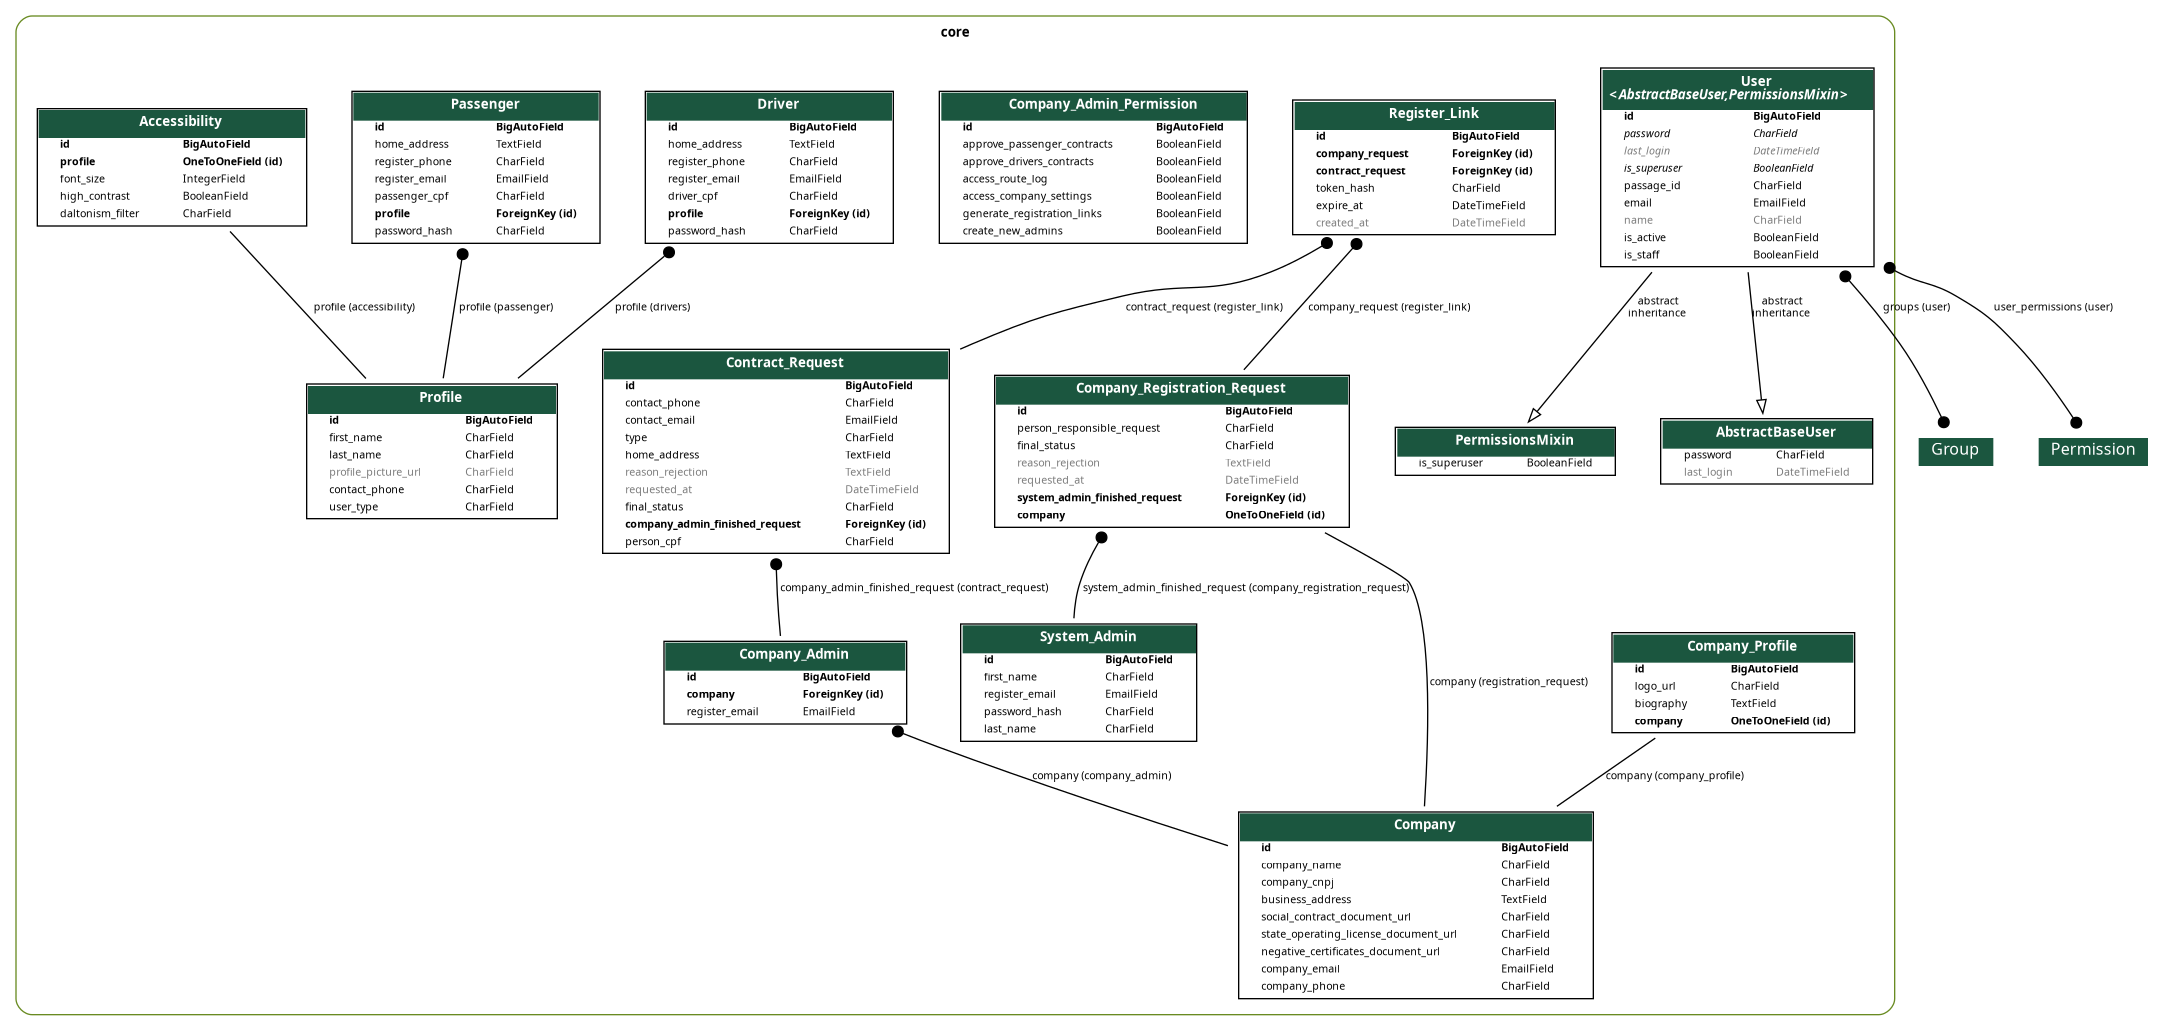
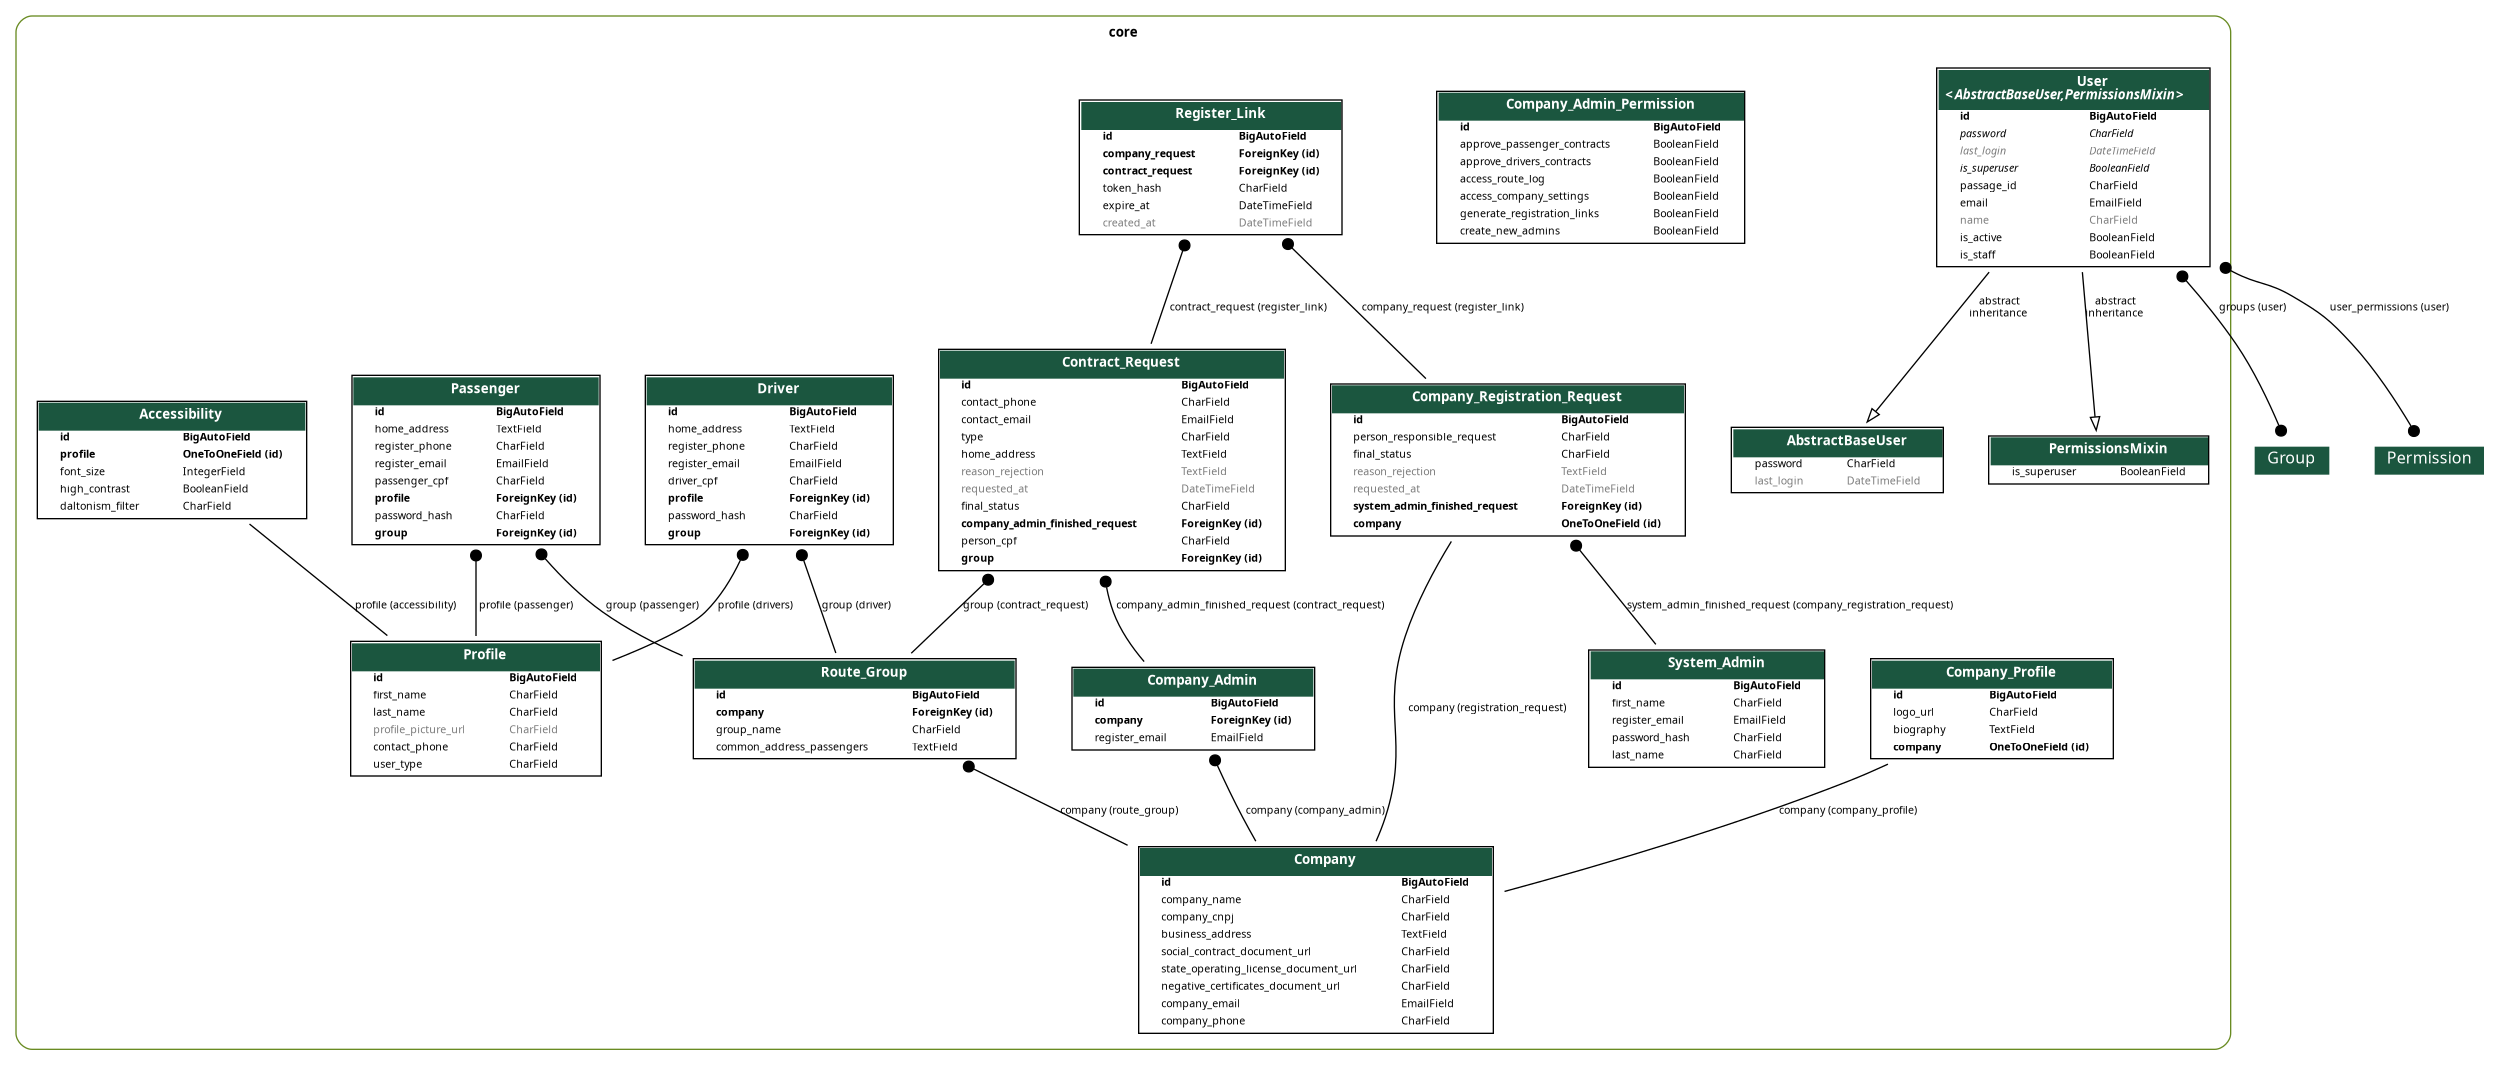
feat: criacao de api RouteGroup #13

diff --git a/core/migrations/0019_contract_request_group_driver_group_passenger_group.py b/core/migrations/0019_contract_request_group_driver_group_passenger_group.py
@@ -1,0 +1,29 @@
+# Generated by Django 5.2.12 on 2026-04-13 14:02
+
+import django.db.models.deletion
+from django.db import migrations, models
+
+
+class Migration(migrations.Migration):
+
+    dependencies = [
+        ('core', '0018_route_group'),
+    ]
+
+    operations = [
+        migrations.AddField(
+            model_name='contract_request',
+            name='group',
+            field=models.ForeignKey(null=True, on_delete=django.db.models.deletion.SET_NULL, to='core.route_group'),
+        ),
+        migrations.AddField(
+            model_name='driver',
+            name='group',
+            field=models.ForeignKey(null=True, on_delete=django.db.models.deletion.SET_NULL, to='core.route_group'),
+        ),
+        migrations.AddField(
+            model_name='passenger',
+            name='group',
+            field=models.ForeignKey(null=True, on_delete=django.db.models.deletion.SET_NULL, to='core.route_group'),
+        ),
+    ]

diff --git a/core/migrations/0018_route_group.py b/core/migrations/0018_route_group.py
@@ -1,0 +1,27 @@
+# Generated by Django 5.2.12 on 2026-04-13 13:58
+
+import django.db.models.deletion
+from django.db import migrations, models
+
+
+class Migration(migrations.Migration):
+
+    dependencies = [
+        ('core', '0017_passenger'),
+    ]
+
+    operations = [
+        migrations.CreateModel(
+            name='Route_Group',
+            fields=[
+                ('id', models.BigAutoField(auto_created=True, primary_key=True, serialize=False, verbose_name='ID')),
+                ('group_name', models.CharField(max_length=100)),
+                ('common_address_passengers', models.TextField()),
+                ('company', models.ForeignKey(on_delete=django.db.models.deletion.CASCADE, to='core.company')),
+            ],
+            options={
+                'verbose_name': 'Grupo de Rota',
+                'verbose_name_plural': 'Grupos de Rota',
+            },
+        ),
+    ]

diff --git a/core/models/route_group.py b/core/models/route_group.py
@@ -1,0 +1,14 @@
+from django.db import models
+
+
+class Route_Group(models.Model):
+    company = models.ForeignKey('Company', on_delete=models.CASCADE)
+    group_name = models.CharField(max_length=100)
+    common_address_passengers = models.TextField()
+
+    class Meta:
+        verbose_name = 'Grupo de Rota'
+        verbose_name_plural = 'Grupos de Rota'
+
+    def __str__(self):
+        return f"Grupo de Rota {self.group_name} - Empresa: {self.company.company_name}"

diff --git a/core/serializers/route_group.py b/core/serializers/route_group.py
@@ -1,0 +1,9 @@
+from rest_framework.serializers import ModelSerializer
+
+from core.models import Route_Group
+
+
+class Route_GroupSerializer(ModelSerializer):
+    class Meta:
+        model = Route_Group
+        fields = '__all__'

diff --git a/core/views/route_group.py b/core/views/route_group.py
@@ -1,0 +1,9 @@
+from rest_framework.viewsets import ModelViewSet
+
+from core.models import Route_Group
+from core.serializers import Route_GroupSerializer
+
+
+class Route_GroupViewSet(ModelViewSet):
+    queryset = Route_Group.objects.all()
+    serializer_class = Route_GroupSerializer

diff --git a/app/urls.py b/app/urls.py
@@ -19,6 +19,7 @@ from core.views import (
     PassengerViewSet,
     ProfileViewSet,
     Register_LinkViewSet,
+    Route_GroupViewSet,
     System_AdminViewSet,
     UserViewSet,
 )
@@ -42,6 +43,7 @@ router.register(r'solicitacoes_contrato', Contract_RequestViewSet, basename='sol
 router.register(r'links_cadastro', Register_LinkViewSet, basename='links de cadastro')
 router.register(r'motoristas', DriverViewSet, basename='motoristas')
 router.register(r'passageiros', PassengerViewSet, basename='passageiros')
+router.register(r'grupos_de_rotas', Route_GroupViewSet, basename='grupos de rotas')
 
 urlpatterns = [
     path('admin/', admin.site.urls),

diff --git a/core/admin.py b/core/admin.py
@@ -64,3 +64,4 @@ admin.site.register(models.Contract_Request)
 admin.site.register(models.Register_Link)
 admin.site.register(models.Driver)
 admin.site.register(models.Passenger)
+admin.site.register(models.Route_Group)

diff --git a/core/models/__init__.py b/core/models/__init__.py
@@ -11,3 +11,4 @@ from  .contract_request import Contract_Request
 from .register_link import Register_Link
 from .driver import Driver
 from .passenger import Passenger
+from .route_group import Route_Group

diff --git a/core/models/contract_request.py b/core/models/contract_request.py
@@ -11,6 +11,7 @@ class Contract_Request(models.Model):
     final_status = models.CharField(max_length=20)
     company_admin_finished_request = models.ForeignKey('Company_Admin', on_delete=models.PROTECT, null=True)
     person_cpf = models.CharField(max_length=14)
+    group = models.ForeignKey('Route_Group', on_delete=models.SET_NULL, null=True)
 
     class Meta:
         verbose_name = 'Solicitação de Contrato'

diff --git a/core/models/driver.py b/core/models/driver.py
@@ -8,6 +8,7 @@ class Driver(models.Model):
     driver_cpf = models.CharField(max_length=14)
     profile = models.ForeignKey('Profile', on_delete=models.PROTECT, related_name='drivers')
     password_hash = models.CharField(max_length=255)
+    group = models.ForeignKey('Route_Group', on_delete=models.SET_NULL, null=True)
 
     class Meta:
         verbose_name = 'Motorista'

diff --git a/core/models/passenger.py b/core/models/passenger.py
@@ -8,6 +8,7 @@ class Passenger(models.Model):
     passenger_cpf = models.CharField(max_length=14)
     profile = models.ForeignKey('Profile', on_delete=models.CASCADE)
     password_hash = models.CharField(max_length=255)
+    group = models.ForeignKey('Route_Group', on_delete=models.SET_NULL, null=True)
 
     class Meta:
         verbose_name = 'Passageiro'

diff --git a/core/serializers/__init__.py b/core/serializers/__init__.py
@@ -11,3 +11,4 @@ from .contract_request import Contract_RequestSerializer
 from .register_link import Register_LinkSerializer
 from .driver import DriverSerializer
 from .passenger import PassengerSerializer
+from .route_group import Route_GroupSerializer